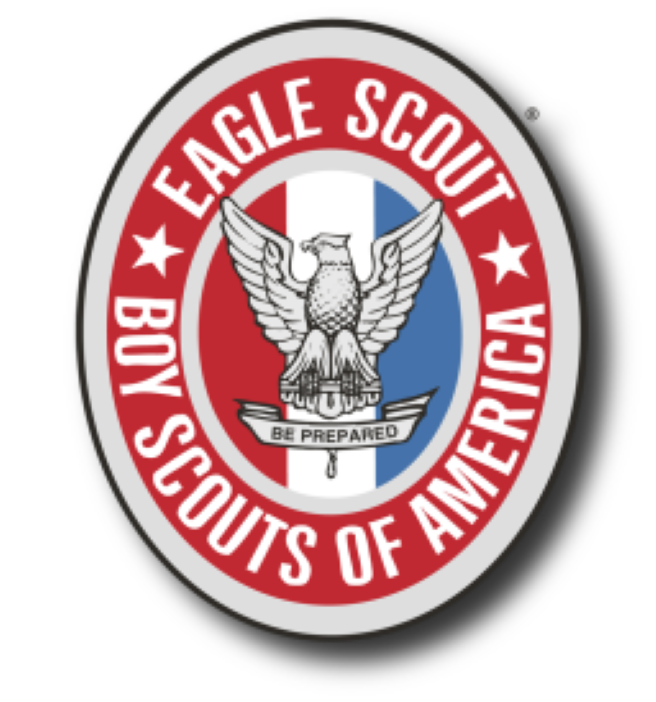
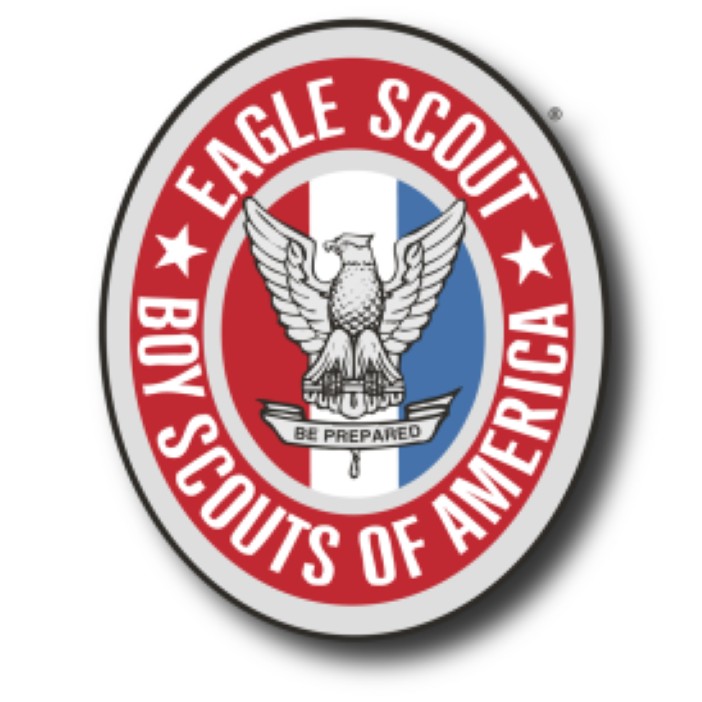
Added Software Skills

diff --git a/skills.html b/skills.html
@@ -169,8 +169,8 @@
                 <div>
                     <h3>Solidworks</h3>
                     <p>I've been using Solidworks since 2014 and have modeled everything from book stands to nose cones.
-                        My experience includes working with large assemblies, version control, and engineering
-                        drawings. My experience with building parts helps to ensure my parts are manufacturable.</p>
+                        My experience includes working with large assemblies, version control, variables, and engineering
+                        drawings. </p>
                     <a class="link-btn" href="/solidworks.html">See More</a>
                 </div>
             </div>
@@ -180,7 +180,7 @@
                     <h3>MATLAB</h3>
                     <p>I first learned MATLAB by automating my Astronautics homework. Since then, I've used MATLAB in
                         primarily rocket and spacecraft simulation projects. I've worked with MATLAB's ODE solvers,
-                        Aerospace and Controls toolboxes, and a little bit of object oriented programing.</p>
+                        Aerospace and Controls toolboxes, and object oriented programing.</p>
                     <a class="link-btn" href="/matlab.html">See More</a>
                 </div>
             </div>
@@ -223,8 +223,32 @@
                 <div>
                     <h3>KiCad</h3>
                     <p>While the first EDA I used was Eagle at Busek, I learned KiCad when I began designing
-                        circuits for personal projects. I've been using it to design flight computer boards for high
+                        circuits for personal projects. I've been using it to design <a href="/pcb-design.html">flight computer boards</a> for high
                         power rocketry.
+                    </p>
+                    <!-- <button>See More</button> -->
+                </div>
+            </div>
+            <div class="flex-card">
+                <img src="img/latex.svg" alt="LaTeX" class="img-left small">
+                <div>
+                    <h3>LaTeX</h3>
+                    <p>
+                        LaTeX is program for compiling papers written in plain text source documents, such as my <a href="/resume.html">resume</a>.  
+                        Unlike <a href="/word.html">MS Word</a>,
+                        LaTeX is not a <acronym title="What You See is What You Get">"WYSIWYG"</acronym> style editor, but it does allow for exact formatting, 
+                        version control, and nice equations.
+                    </p>
+                    <!-- <button>See More</button> -->
+                </div>
+            </div>
+            <div class="flex-card">
+                <img src="img/stk-icon_whitebg.png" alt="STK" class="img-left small">
+                <div>
+                    <h3>Systems Tool Kit</h3>
+                    <p>
+                        I have a Level 1 Certification for STK, a mission analysis program used in a variety of applications.  In aerospace, it is used for 
+                        analyzing space and aircraft missions. 
                     </p>
                     <!-- <button>See More</button> -->
                 </div>

diff --git a/experience.html b/experience.html
@@ -262,8 +262,7 @@
                 <img
                     src="img/patch.png"
                     alt="Eagle Scout"
-                    class="img-mid"
-                    style="width: 10rem; padding: 20px 10px"
+                    class="img-mid small"
                 />
                 <div>
                     <h3 class="title">Eagle Scout, Bronze Palm</h3>
@@ -295,7 +294,7 @@
                     <h5 class="subtitle">Delivery Assistant, 2015-2016</h5>
                     <p>
                         This was my first job that I had which where I worked
-                        with my manager to deliver fresh meat to restaurants in
+                        with my manager to deliver grass-fed beef to restaurants in
                         the Greater Boston Area. I even served as Interim
                         Manager for a week, managing all deliveries, writing
                         invoices, and making a few sales.

diff --git a/education.html b/education.html
@@ -29,7 +29,7 @@
         <span class="card-text">
             <h2 class="title">Worcester Polytechnic Institute</h2>
             <h4 class="subtitle">BS in Aerospace Engineering, Minor in Computer Science, <i>Expected 2021</i>, <span
-                    style="color: #00539C;">3.7
+                    style="color: #00539C;">3.72
                     gpa</span>.</h4>
             <h4 class="subtitle">MS in Aerospace Engineering, <i>Expected 2022</i>.</h4>
         </span>
@@ -144,7 +144,7 @@
                     <li>Introduction to Structures</li>
                     <li>Atmosphere and Space Environments</li>
                     <li>Rocket Propulsion</li>
-                    <li>Spacecraft and Mission Design*</li>
+                    <li>Spacecraft and Mission Design</li>
                 </ul>
             </div>
         </div>

diff --git a/usli.html b/usli.html
@@ -34,7 +34,7 @@
         </p>
     </span>
     <div class="small-br"></div>
-    <p><i>Note: WPI USLI rebranded to HPRC over the summer of 2020. For the convenience of the reader, I still refer to it as USLI.</i></p>
+    <p><i>Note: WPI USLI rebranded to HPRC over the summer of 2020. To keep consistent, I still refer to it as USLI on this website.</i></p>
     <p>University Student Launch Initiative (USLI) is a NASA competition in which team's design, build, test, and fly a
         rocket to a target altitude, usually between 4000 and 5000 feet, before deploying a payload to complete a
         mission. This mission changes year to year. The competition mirrors the NASA design life cycle, requiring teams
